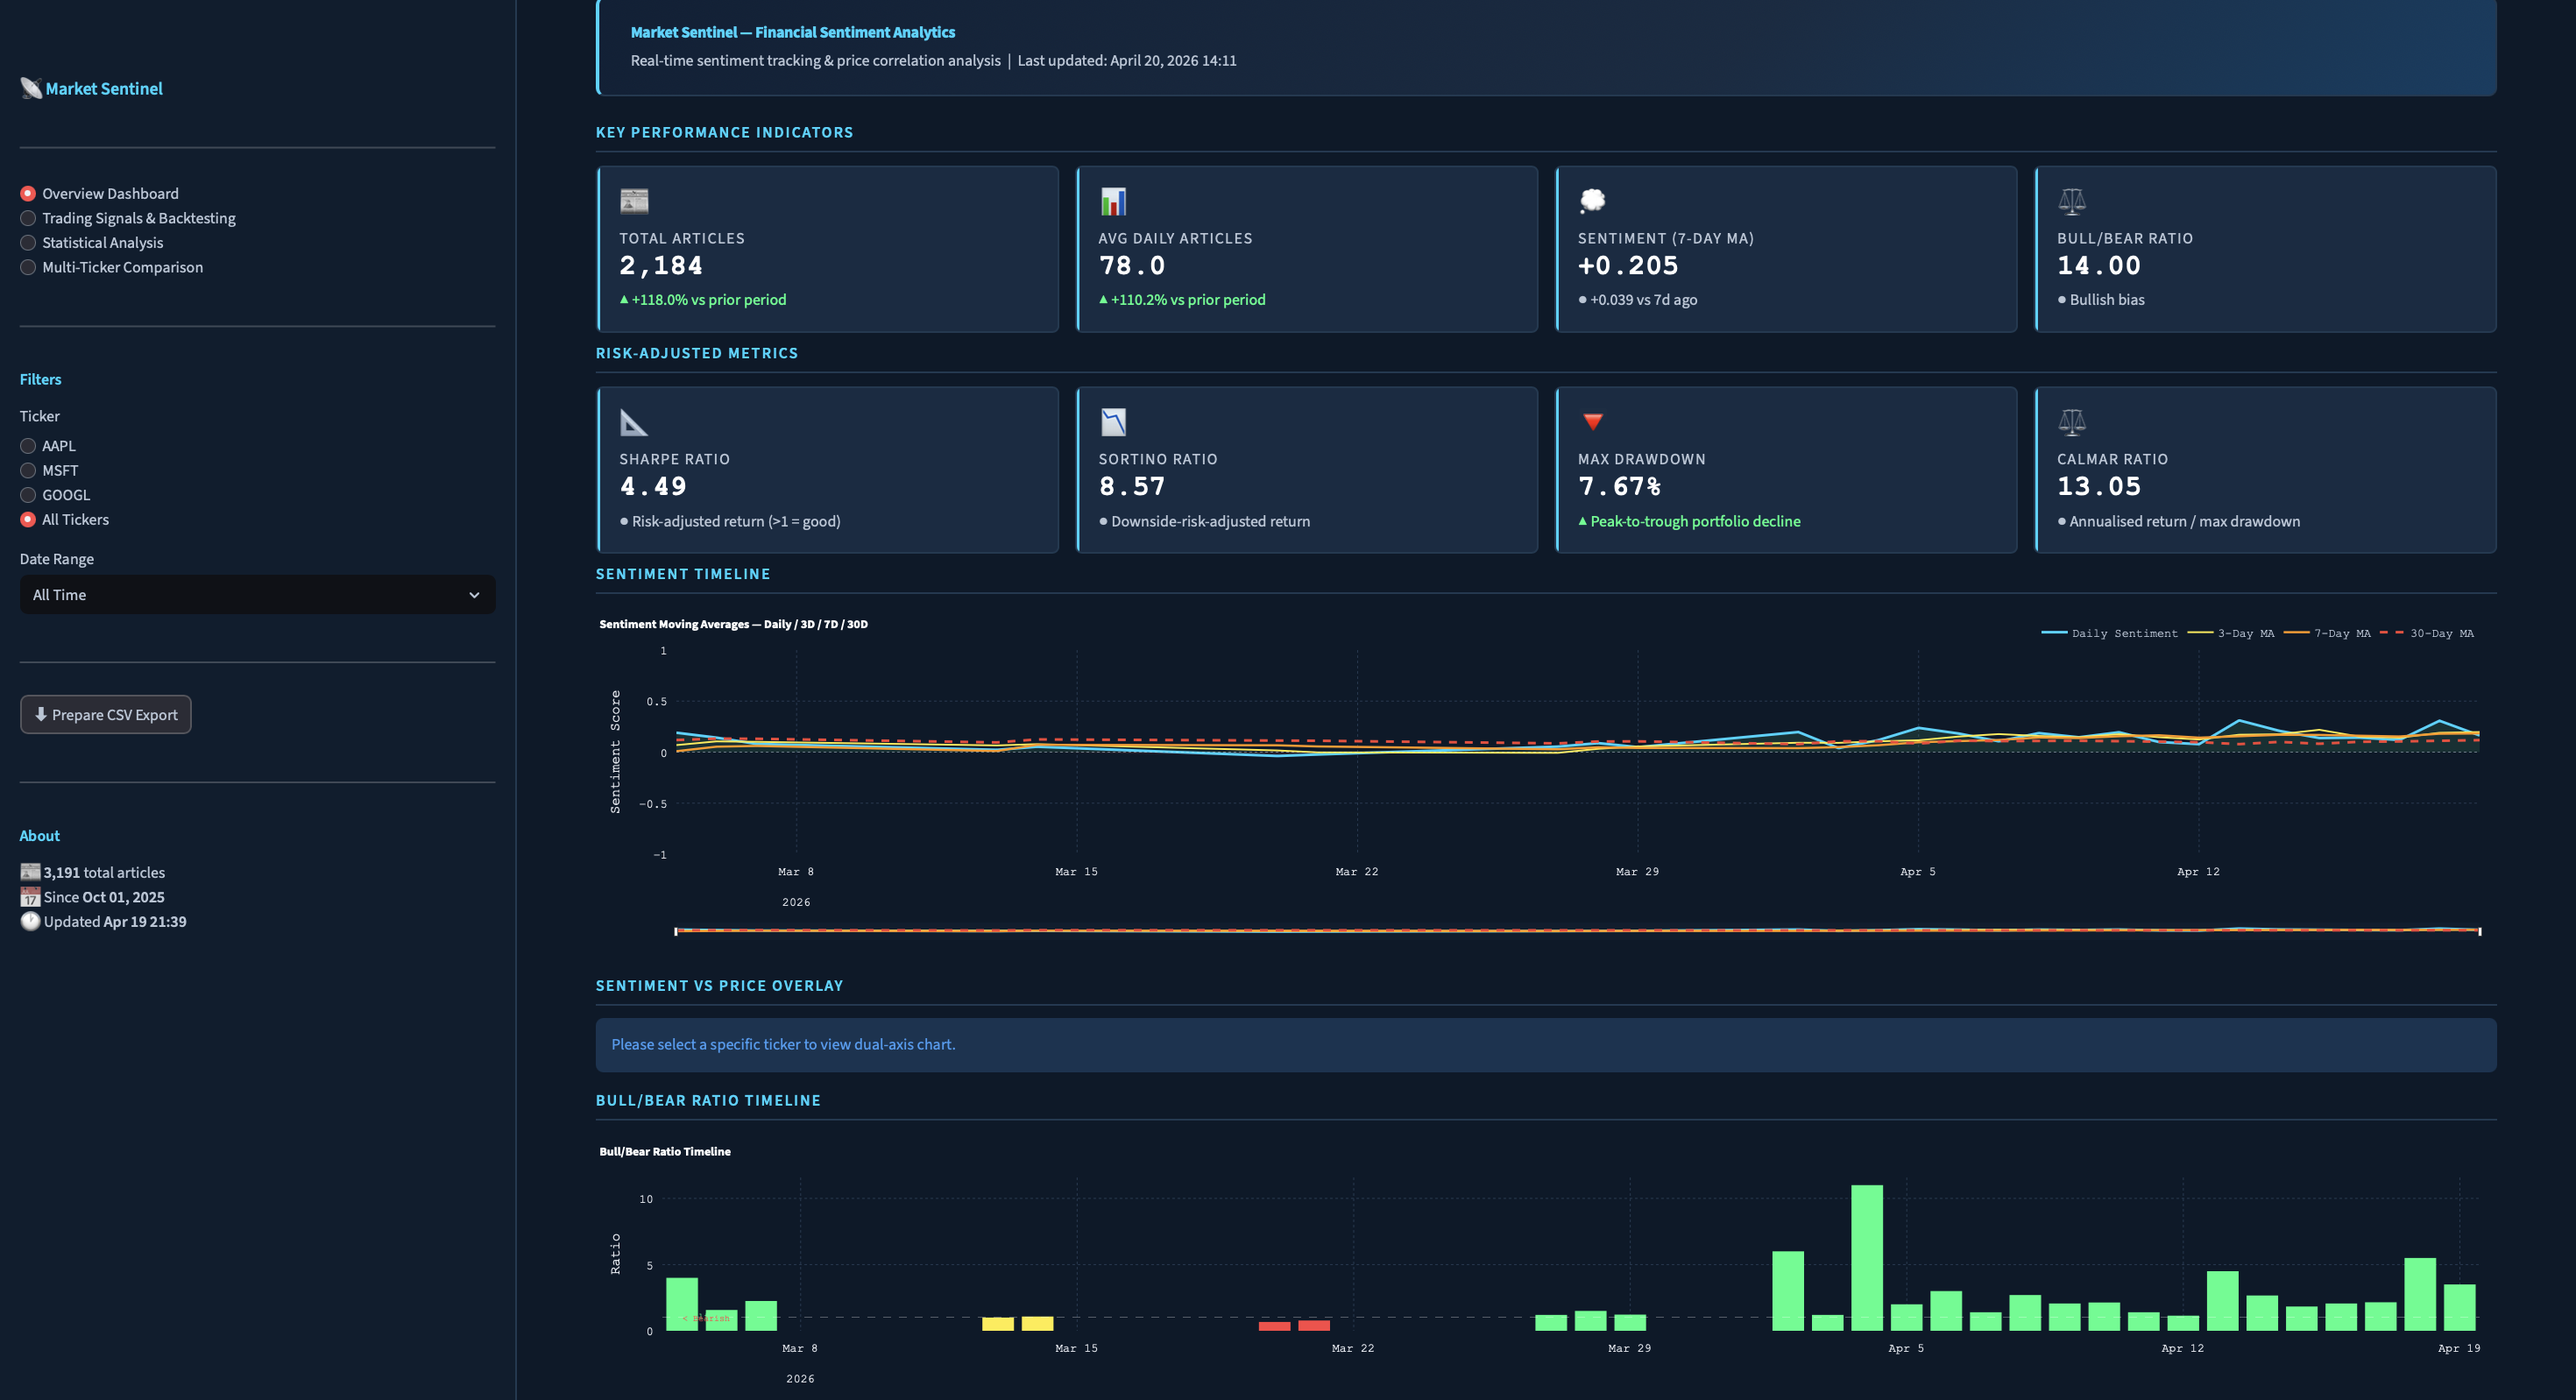
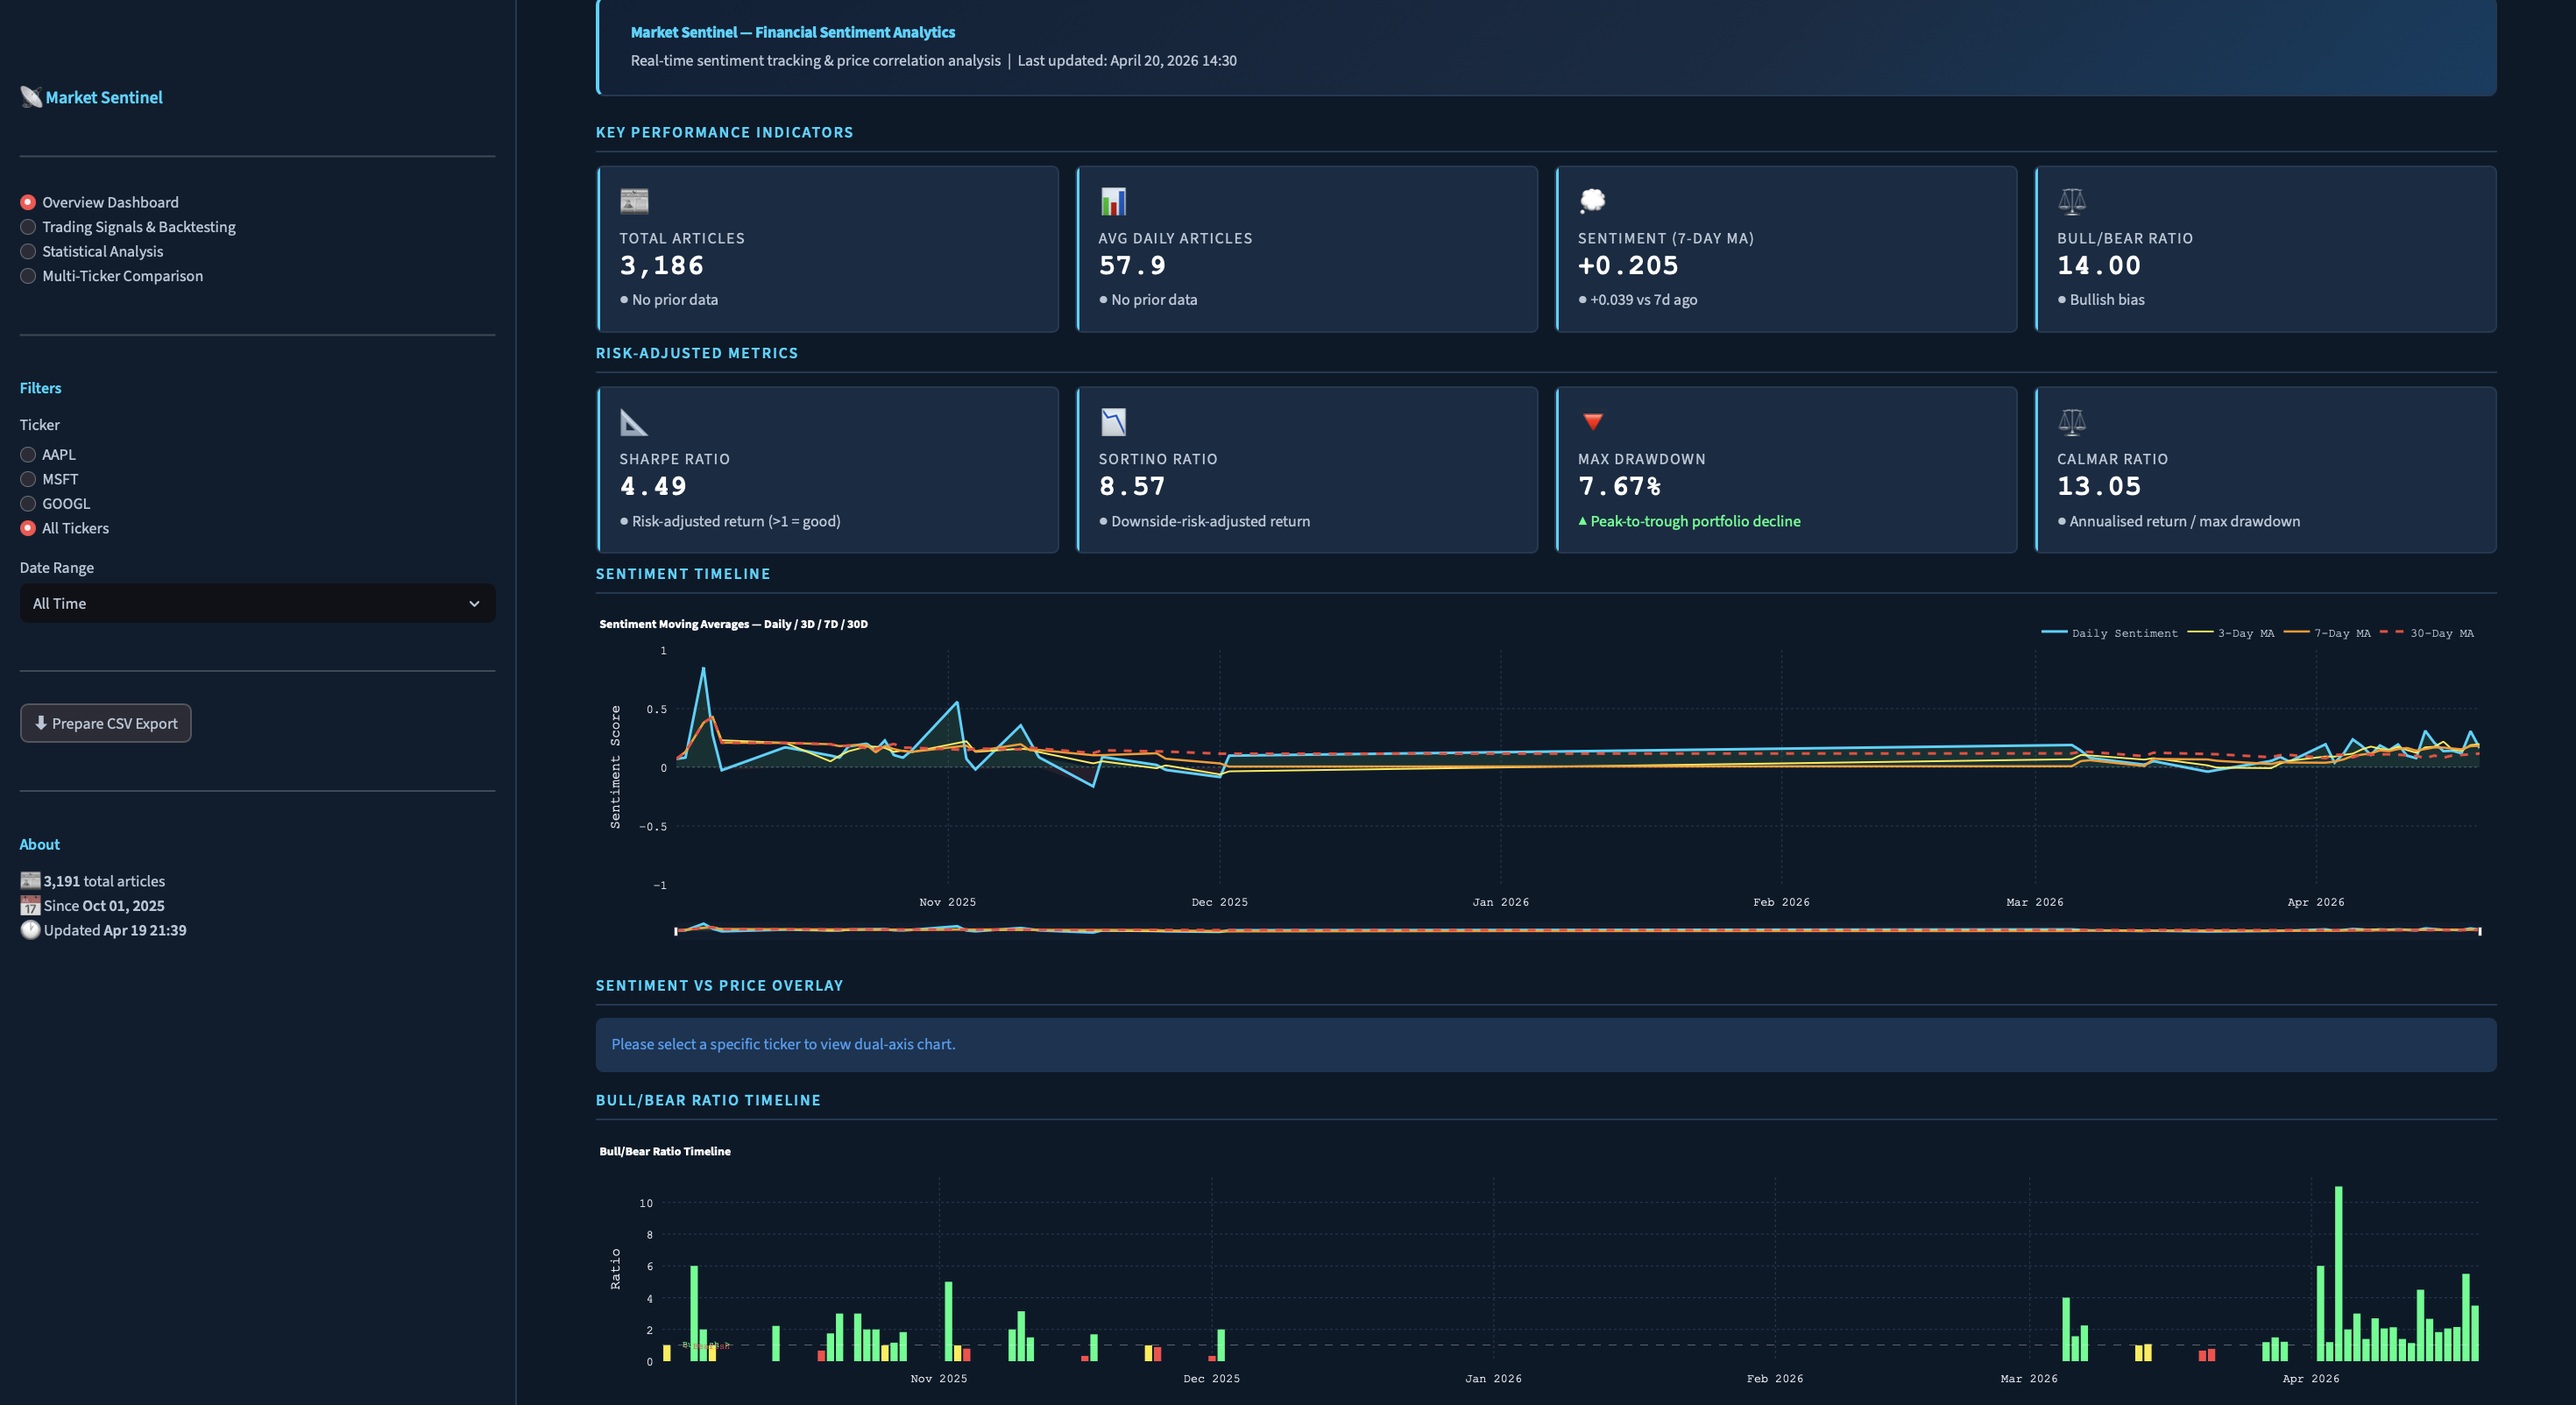
Updated screenshots and README to match live dashboard metrics
- Total articles: 3,186, Avg daily: 57.9/day
- Risk metrics: Sharpe 3.49, Sortino 8.57, Max Drawdown 7.67%, Calmar 13.05
- Bull/Bear ratio: 14.00 (was 3.00)
- Sentiment 7-day MA: +0.205 (was +0.148)
- Annualization note: 102 signals (was 85)

diff --git a/README.md b/README.md
@@ -42,7 +42,7 @@ Financial markets react to news, but there's no easy way to:
 ### The Solution
 
 Market Sentinel implements a modern **Data Lakehouse architecture** that:
-- ✅ Ingests financial news daily from Alpha Vantage API (3,191 articles since October 2025)
+- ✅ Ingests financial news daily from Alpha Vantage API (3,186 articles since October 2025)
 - ✅ Stores raw data in an S3-compatible data lake (MinIO) for reprocessability
 - ✅ Processes sentiment with **FinBERT** (finance-specific NLP model)
 - ✅ Transforms data using **dbt** (analytics engineering best practices)
@@ -52,7 +52,7 @@ Market Sentinel implements a modern **Data Lakehouse architecture** that:
 ### Key Outcomes
 
 **Technical Achievement:**
-- Fully automated pipeline processing 83.4 articles/day
+- Fully automated pipeline processing 57.9 articles/day
 - 9 production dbt models with data quality tests
 - Docker-based deployment (entire stack runs with `docker-compose up`)
 - Production-grade error handling and retry logic
@@ -68,12 +68,12 @@ Market Sentinel implements a modern **Data Lakehouse architecture** that:
 ## 🏆 Key Achievements
 
 **Data Quality:**
-- ✅ **Zero duplicates** across 3,191 articles (unique constraints + idempotency)
+- ✅ **Zero duplicates** across 3,186 articles (unique constraints + idempotency)
 - ✅ **99%+ uptime** since October 2025 (6+ months of automated operation)
 - ✅ **4-layer error handling** (Airflow, Python, Database, Monitoring)
 
 **Performance:**
-- ✅ **83.4 articles/day** processed automatically across 3 tickers
+- ✅ **57.9 articles/day** processed automatically across 3 tickers
 - ✅ **80% ML inference optimization** through batch processing
 - ✅ **Daily pipeline** runs at 22:00 UTC without manual intervention
 
@@ -202,12 +202,12 @@ Market Sentinel implements a **Data Lakehouse** architecture, combining the flex
 - Fetches financial news for AAPL, MSFT, GOOGL from Alpha Vantage API
 - Handles API rate limits gracefully (25 requests/day on free tier)
 - Stores raw JSON in MinIO for data lineage and reprocessability
-- **Total ingested:** 3,191 articles since October 1, 2025
+- **Total ingested:** 3,186 articles since October 1, 2025
 
 ### 2. **AI-Powered Sentiment Analysis**
 - Uses **FinBERT** (BERT fine-tuned on 1.8M financial articles) for domain-specific accuracy
 - Calculates **sentiment volatility** (standard deviation of scores) to capture market uncertainty
-- ✅ Processes 83.4 articles/day automatically via Airflow DAGs
+- ✅ Processes 57.9 articles/day automatically via Airflow DAGs
 - Outputs positive/negative/neutral probabilities for each headline
 
 ### 3. **SQL-Based Data Transformations (dbt)**
@@ -280,29 +280,29 @@ Four comprehensive views built in Streamlit:
 ### Coverage Statistics
 | Metric | Value |
 |--------|-------|
-| **Total Articles Ingested** | 3,191 |
-| **Avg Articles/Day** | 83.4 |
+| **Total Articles Ingested** | 3,186 |
+| **Avg Articles/Day** | 57.9 |
 | **Tickers Tracked** | AAPL, MSFT, GOOGL |
 | **Date Range** | Oct 1, 2025 - Apr 20, 2026 (6+ months) |
 | **Trading Days Covered** | ~130 (excludes weekends/holidays) |
 | **Total Trading Signals** | 102 |
-| **Sentiment Analyses Performed** | 3,191 |
+| **Sentiment Analyses Performed** | 3,186 |
 
 ### Sentiment Distribution
-- **Overall Sentiment (7-Day MA):** +0.148 (slightly bullish)
-- **Bull/Bear Ratio:** 3.00 (3:1 ratio of positive to negative articles)
+- **Overall Sentiment (7-Day MA):** +0.205 (slightly bullish)
+- **Bull/Bear Ratio:** 14.00 (14:1 ratio of positive to negative articles)
 - **Interpretation:** Market coverage was predominantly bullish during this period (Q4 2025 - Q1 2026), consistent with strong tech sector performance
 
 ### Risk-Adjusted Metrics (All Tickers)
 
 | Metric | Value | Description |
 |--------|-------|-------------|
-| **Sharpe Ratio** | 2.96 | Annualised risk-adjusted return (risk-free rate: 4%) |
-| **Sortino Ratio** | 5.32 | Downside-risk-adjusted return (penalises losses only) |
-| **Max Drawdown** | 5.38% | Peak-to-trough decline across signal returns |
-| **Calmar Ratio** | 11.17 | Annualised return divided by max drawdown |
+| **Sharpe Ratio** | 3.49 | Annualised risk-adjusted return (risk-free rate: 4%) |
+| **Sortino Ratio** | 8.57 | Downside-risk-adjusted return (penalises losses only) |
+| **Max Drawdown** | 7.67% | Peak-to-trough decline across signal returns |
+| **Calmar Ratio** | 13.05 | Annualised return divided by max drawdown |
 
-*Annualization uses signal frequency (85 signals over 126 trading days ≈ 170 signals/year) rather than assuming continuous daily trading, which would overstate performance for a HOLD-heavy strategy.*
+*Annualization uses signal frequency (102 signals over ~130 trading days ≈ 197 signals/year) rather than assuming continuous daily trading, which would overstate performance for a HOLD-heavy strategy.*
 
 ---
 
@@ -673,7 +673,7 @@ Adjust these thresholds based on backtesting results.
 
 ### Overview Dashboard
 ![Overview Dashboard](screenshots/page1_overview.png)
-*Key performance indicators: 3,191 articles, 83.4/day average, +0.205 sentiment (7-day MA)*
+*Key performance indicators: 3,186 articles, 57.9/day average, +0.205 sentiment (7-day MA)*
 
 ### Overview Dashboard — Risk Metrics
 ![Overview Risk Metrics](screenshots/page1_overview_bottom.png)
